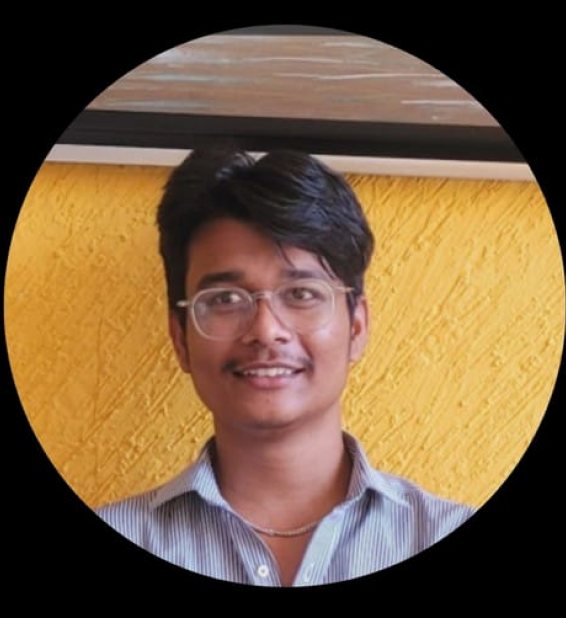
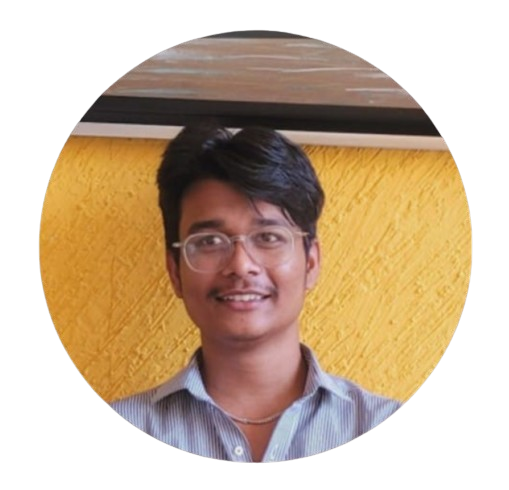
major change, remove image

diff --git a/style.css b/style.css
@@ -2,6 +2,8 @@
     padding: 0%;
     margin: 0%;
     overflow: hidden;
+    display: flex;
+    align-items: center;
 }
 
 .nav{
@@ -43,9 +45,16 @@ a{
     margin-left: auto   ;
 }
 
-.myimg{
+/* .myimg{
     display: flex;
     
+} */
+
+#me{
+    display: flex;
+    position: relative;
+    top: 50px;
+    left: 50px;
 }
 
 @media(max-width:572px){
@@ -102,3 +111,12 @@ a{
         height: 50px;
     }
 }
+
+/* @media(max-width:576px){
+    #me{
+        height: 250px;
+        position: relative;
+        left: 25%;
+        top: 130px;
+    }
+} */
